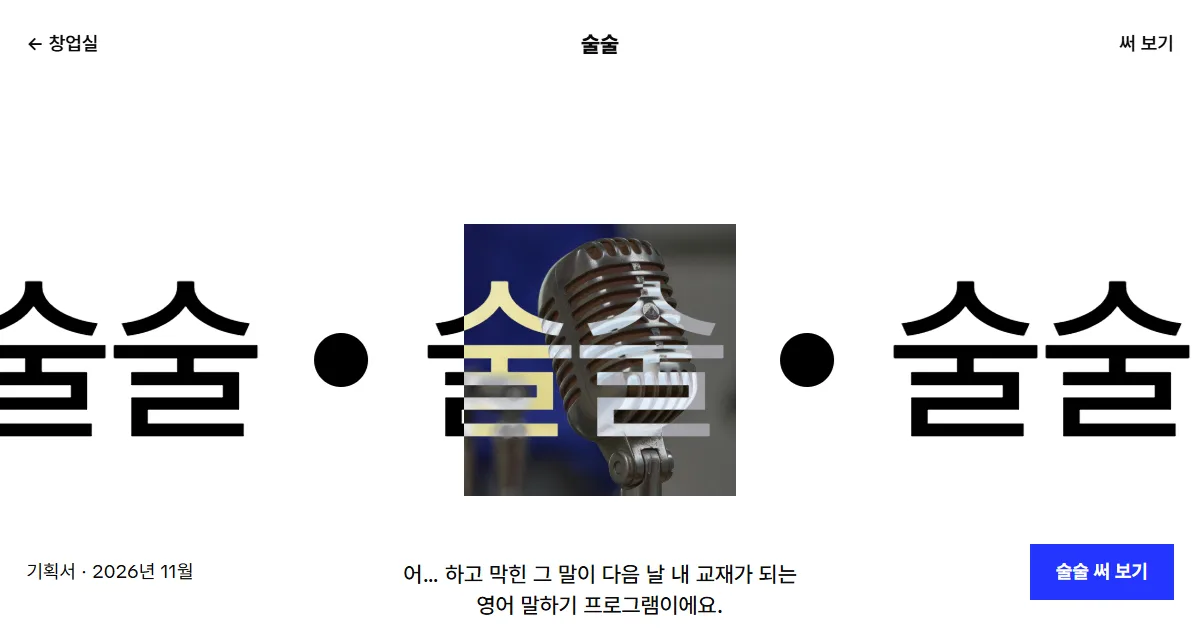
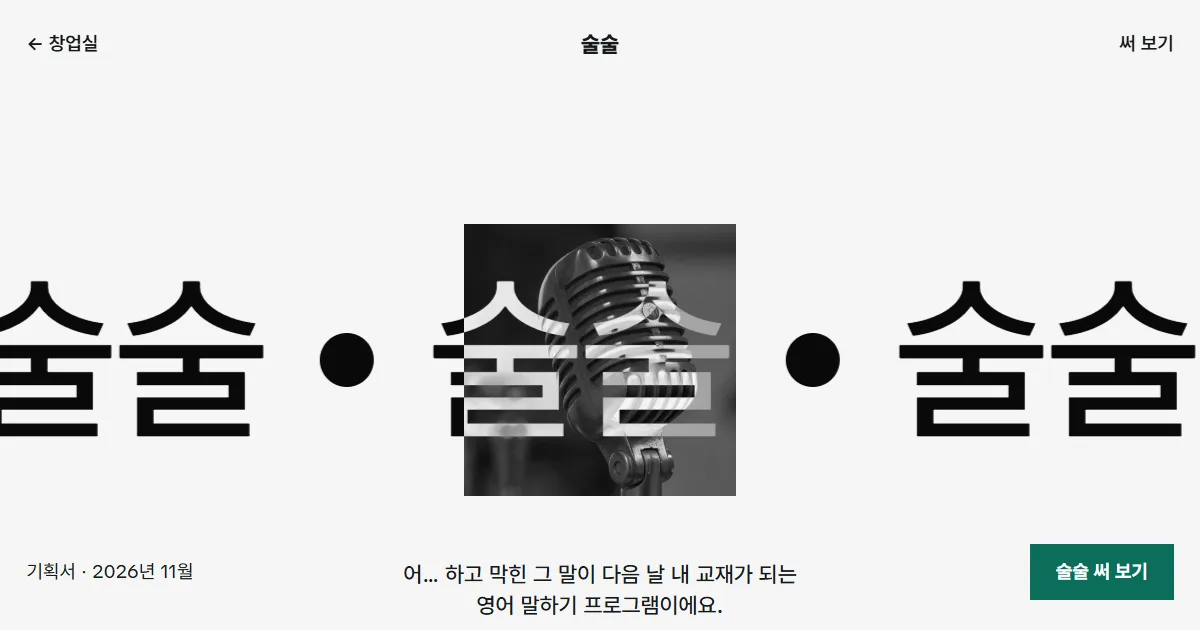
술술 색 바꿈: 쨍한 파랑·빨강 → 차분한 회백 바탕 + 청록 포인트 + 호박색 멈춤 칸 + 짙은 녹흑 면, 앱 마이크는 청록(듣는 중엔 퍼지는 고리), 첫 화면 마이크 사진 흑백

diff --git a/sulsul/index.html b/sulsul/index.html
@@ -10,45 +10,46 @@
 <link href="https://fonts.googleapis.com/css2?family=TikTok+Sans:wdth,wght@75..150,300..900&display=swap" rel="stylesheet">
 <link rel="stylesheet" href="https://cdn.jsdelivr.net/gh/orioncactus/pretendard@v1.3.9/dist/web/variable/pretendardvariable-dynamic-subset.min.css">
 <style>
-:root { --bg: #fff; --surface: #f3f3f3; --line: #e3e3e3; --ink: #0a0a0a; --muted: #5e5e5e; --blue: #2436ff; --red: #ff3b1f; --navy: #050a5c }
+:root { --bg: #fafbfa; --page: #e9ebe9; --surface: #eff1ef; --line: #dcdfdc; --ink: #17191c; --muted: #62656b; --accent: #0b6e5b; --accent-soft: #dcefe9; --warm: #f0a23b; --warm-ink: #8f5300; --alert: #b4441b; --deep: #0f2a26 }
 * { box-sizing: border-box }
 html, body { margin: 0; min-height: 100% }
-body { background: var(--surface); color: var(--ink); font: 400 17px/1.45 "TikTok Sans", "Pretendard Variable", Pretendard, sans-serif; word-break: keep-all; overflow-wrap: anywhere; -webkit-font-smoothing: antialiased }
+body { background: var(--page); color: var(--ink); font: 400 17px/1.45 "TikTok Sans", "Pretendard Variable", Pretendard, sans-serif; word-break: keep-all; overflow-wrap: anywhere; -webkit-font-smoothing: antialiased }
 button, input, select, textarea { font: inherit; color: inherit }
 button { border: 0; background: none; cursor: pointer; padding: 0 }
 button:disabled { opacity: .4; cursor: default }
-:focus-visible { outline: 3px solid var(--blue); outline-offset: 2px }
+:focus-visible { outline: 3px solid var(--accent); outline-offset: 2px }
 [hidden] { display: none !important }
 .app { max-width: 460px; min-height: 100vh; margin: 0 auto; background: var(--bg); display: flex; flex-direction: column }
 .top { display: flex; justify-content: space-between; align-items: center; padding: 16px 20px 0 }
 .mark { font-weight: 800; font-size: 24px; letter-spacing: -.03em; text-decoration: none; color: var(--ink) }
+.mark::after { content: ""; display: inline-block; width: 7px; height: 7px; margin-left: 3px; border-radius: 50%; background: var(--warm) }
 .day { font-weight: 600; font-size: 15px; color: var(--muted) }
 .view { flex: 1; padding: 14px 20px 24px; display: flex; flex-direction: column }
 h2 { margin: 22px 0 10px; font-size: 15px; font-weight: 700 }
 h2:first-child { margin-top: 6px }
 .big { margin: 10px 0 0; font-size: 28px; line-height: 1.2; font-weight: 800; letter-spacing: -.02em }
 .soft { color: var(--muted); font-size: 15px }
-.btn { display: inline-flex; align-items: center; justify-content: center; min-height: 52px; padding: 0 22px; background: var(--blue); color: #fff; font-weight: 700; transition: transform .12s, background .2s; text-decoration: none }
+.btn { display: inline-flex; align-items: center; justify-content: center; min-height: 52px; padding: 0 22px; background: var(--accent); color: #fff; font-weight: 700; transition: transform .12s, background .2s; text-decoration: none }
 .btn:hover { background: var(--ink) }
 .btn:active { transform: scale(.97) }
 .btn.ghost { background: var(--surface); color: var(--ink) }
 .btn.ghost:hover { background: var(--line) }
 .btn.wide { width: 100% }
-.link { color: var(--blue); font-weight: 700; font-size: 15px }
-.err { color: var(--red); font-weight: 600; font-size: 15px; margin: 8px 0 0 }
+.link { color: var(--accent); font-weight: 700; font-size: 15px }
+.err { color: var(--alert); font-weight: 600; font-size: 15px; margin: 8px 0 0 }
 .err:empty { display: none }
 
 /* 탭 */
 .tabs { position: sticky; bottom: 0; display: grid; grid-template-columns: repeat(5, 1fr); background: var(--bg); border-top: 1px solid var(--line) }
 .tabs button { padding: 12px 0 14px; font-size: 14px; font-weight: 700; color: var(--muted) }
-.tabs button[aria-current=page] { color: var(--ink); box-shadow: inset 0 3px var(--blue) }
-.tabs button i { display: block; font-style: normal; font-size: 12px; font-weight: 600; color: var(--blue); min-height: 1em }
+.tabs button[aria-current=page] { color: var(--ink); box-shadow: inset 0 3px var(--accent) }
+.tabs button i { display: block; font-style: normal; font-size: 12px; font-weight: 600; color: var(--accent); min-height: 1em }
 
 /* 시작 */
 .pick { display: grid; gap: 10px; margin-top: 18px }
 .pick button { text-align: left; padding: 18px; background: var(--surface); transition: background .2s }
 .pick button:hover { background: var(--line) }
-.pick button[aria-pressed=true] { background: var(--blue); color: #fff }
+.pick button[aria-pressed=true] { background: var(--accent); color: #fff }
 .pick b { display: block; font-size: 20px; font-weight: 800 }
 .pick span { font-size: 15px; opacity: .85 }
 label.f { display: grid; gap: 4px; margin-top: 12px; font-size: 15px; font-weight: 600 }
@@ -57,28 +58,28 @@ label.f { display: grid; gap: 4px; margin-top: 12px; font-size: 15px; font-weigh
 
 /* 오늘 */
 .who { display: flex; align-items: center; gap: 12px }
-.face { width: 44px; height: 44px; border-radius: 50%; background: var(--blue); color: #fff; display: grid; place-items: center; font-weight: 800; font-size: 20px; flex: none }
+.face { width: 44px; height: 44px; border-radius: 50%; background: var(--accent); color: #fff; display: grid; place-items: center; font-weight: 800; font-size: 20px; flex: none }
 .who b { display: block; font-size: 18px }
 .who span { font-size: 14px; color: var(--muted) }
 .scenes { display: flex; gap: 6px; overflow-x: auto; scrollbar-width: none; margin: 14px -20px 0; padding: 0 20px }
 .scenes button { flex: none; padding: 8px 12px; background: var(--surface); font-size: 15px; font-weight: 600 }
-.scenes button[aria-pressed=true] { background: var(--ink); color: #fff }
+.scenes button[aria-pressed=true] { background: var(--accent); color: #fff }
 .say { margin: 14px 0 0; font-size: 23px; line-height: 1.25; font-weight: 600; letter-spacing: -.01em; min-height: 2.5em }
 .say.wait { color: var(--muted) }
 .ko { margin: 6px 0 0; font-size: 16px; color: var(--muted) }
 .ko:empty { display: none }
 .sub { display: flex; gap: 14px; margin-top: 8px }
-.sub button { font-size: 15px; font-weight: 700; color: var(--blue) }
+.sub button { font-size: 15px; font-weight: 700; color: var(--accent) }
 .chips { display: grid; gap: 8px }
 .chip { display: flex; justify-content: space-between; align-items: center; gap: 10px; padding: 11px 14px; background: var(--surface); transition: background .3s, color .3s }
 .chip > div { display: flex; flex-wrap: wrap; align-items: baseline; gap: 2px 10px }
 .chip b { font-size: 17px; font-weight: 650 }
 .chip span { font-size: 14px; color: var(--muted) }
 .dots { display: flex; gap: 5px; flex: none }
-.dots::before, .dots::after { content: ""; width: 10px; height: 10px; border-radius: 50%; background: #cfcfcf }
-[data-n="1"] .dots::before, [data-n="2"] .dots::before, [data-n="2"] .dots::after { background: var(--blue) }
-.chip[data-n="2"] { background: var(--blue); color: #fff }
-.chip[data-n="2"] span { color: #dfe2ff }
+.dots::before, .dots::after { content: ""; width: 10px; height: 10px; border-radius: 50%; background: var(--line) }
+[data-n="1"] .dots::before, [data-n="2"] .dots::before, [data-n="2"] .dots::after { background: var(--accent) }
+.chip[data-n="2"] { background: var(--accent); color: #fff }
+.chip[data-n="2"] span { color: #d2ece5 }
 .chip[data-n="2"] .dots::before, .chip[data-n="2"] .dots::after { background: #fff }
 .chip.hit { animation: hit .5s }
 @keyframes hit { 40% { transform: scale(1.03) } }
@@ -86,74 +87,75 @@ label.f { display: grid; gap: 4px; margin-top: 12px; font-size: 15px; font-weigh
 .wave { margin-top: 16px; height: 64px; background: var(--surface) }
 canvas { display: block; width: 100%; height: 100% }
 .heard { margin: 8px 0 0; min-height: 2.9em; font-size: 16px; line-height: 1.45 }
-.heard em { font-style: normal; color: var(--red); font-weight: 700 }
+.heard em { font-style: normal; color: var(--warm-ink); background: #fbe7c4; padding: 0 3px; font-weight: 700 }
 .heard i { font-style: normal; color: var(--muted) }
 .go { margin-top: auto; padding-top: 10px; display: flex; align-items: center; gap: 14px }
-.mic { width: 76px; height: 76px; border-radius: 50%; background: var(--ink); color: #fff; display: grid; place-items: center; flex: none; transition: transform .15s, background .2s }
+.mic { width: 76px; height: 76px; border-radius: 50%; background: var(--accent); color: #fff; display: grid; place-items: center; flex: none; transition: transform .15s, background .2s }
 .mic:hover { transform: scale(1.05) }
 .mic:active { transform: scale(.96) }
 .mic svg { width: 30px; height: 30px }
 .mic .cut { transition: opacity .2s }
-.live .mic { background: var(--red) }
+.live .mic { background: var(--accent); animation: ring 1.6s ease-out infinite }
+@keyframes ring { from { box-shadow: 0 0 0 0 rgba(11, 110, 91, .45) } to { box-shadow: 0 0 0 18px rgba(11, 110, 91, 0) } }
 .live .mic .cut { opacity: 0 }
 .go .st b { display: block; font-size: 20px; font-weight: 800 }
 .go .st span { font-size: 15px; color: var(--muted); font-variant-numeric: tabular-nums }
 .go .side { margin-left: auto; display: grid; gap: 8px; justify-items: end }
-.go .side button { font-size: 15px; font-weight: 700; color: var(--blue) }
+.go .side button { font-size: 15px; font-weight: 700; color: var(--accent) }
 .type { display: flex; gap: 8px; margin-top: 10px }
 .type input { flex: 1; min-width: 0; padding: 12px; border: 0; background: var(--surface); font-size: 16px }
-.result { margin-top: 14px; padding: 16px; background: var(--navy); color: #fff; display: grid; gap: 8px }
+.result { margin-top: 14px; padding: 16px; background: var(--deep); color: #fff; display: grid; gap: 8px }
 .result b { font-size: 20px }
 .result .btn { background: #fff; color: var(--ink) }
 
 /* 연습 */
 .card { padding: 18px; background: var(--surface); margin-top: 10px }
 .card .k { font-size: 20px; font-weight: 700 }
-.card .e { margin-top: 8px; font-size: 22px; font-weight: 700; color: var(--blue) }
+.card .e { margin-top: 8px; font-size: 22px; font-weight: 700; color: var(--accent) }
 .card .e[hidden] { display: none }
 .card .meta { display: flex; justify-content: space-between; align-items: center; margin-top: 12px; font-size: 14px; color: var(--muted) }
 .tools { display: flex; gap: 8px; flex-wrap: wrap; margin-top: 12px }
-.tools button { padding: 10px 14px; background: var(--bg); color: var(--blue); font-weight: 700; font-size: 15px }
-.tools button.on { background: var(--red); color: #fff }
+.tools button { padding: 10px 14px; background: var(--bg); color: var(--accent); font-weight: 700; font-size: 15px }
+.tools button.on { background: var(--warm); color: var(--ink) }
 .score { margin: 10px 0 0; font-weight: 600 }
 .score:empty { display: none }
-.score.ok { color: var(--blue) }
-.score.no { color: var(--red) }
-.score s { color: var(--red) }
+.score.ok { color: var(--accent) }
+.score.no { color: var(--alert) }
+.score s { color: var(--alert) }
 .grad { margin-top: 26px; font-size: 15px; color: var(--muted) }
 
 /* 발음 */
 .pchips { display: flex; gap: 6px; overflow-x: auto; scrollbar-width: none; margin: 0 -20px 12px; padding: 0 20px }
 .pchips button { flex: none; padding: 8px 12px; background: var(--surface); font-weight: 600; font-size: 15px; color: var(--muted) }
-.pchips button[aria-pressed=true] { background: var(--ink); color: #fff }
+.pchips button[aria-pressed=true] { background: var(--accent); color: #fff }
 .pbar { height: 6px; background: var(--line); margin-bottom: 12px }
-.pbar i { display: block; height: 100%; width: 0; background: var(--blue); transition: width .3s }
+.pbar i { display: block; height: 100%; width: 0; background: var(--accent); transition: width .3s }
 .pcard { background: var(--surface); padding: 24px 20px 20px }
-.tag { display: inline-block; padding: 3px 10px; background: var(--ink); color: #fff; font-weight: 700; font-size: 14px }
+.tag { display: inline-block; padding: 3px 10px; background: var(--accent-soft); color: var(--accent); font-weight: 700; font-size: 14px }
 .word { margin: 16px 0 2px; font-size: clamp(40px, 12vw, 58px); font-weight: 800; letter-spacing: -.03em; line-height: 1.05 }
-.word s { text-decoration: none; color: var(--red); opacity: .5 }
-.ask { display: block; width: 100%; margin-top: 22px; padding: 16px; background: var(--blue); color: #fff; font-weight: 700; font-size: 18px }
+.word s { text-decoration: none; color: var(--warm) }
+.ask { display: block; width: 100%; margin-top: 22px; padding: 16px; background: var(--accent); color: #fff; font-weight: 700; font-size: 18px }
 .ans { margin-top: 18px; display: grid; gap: 12px }
-.wrong { color: var(--red); font-size: 19px; font-weight: 600 }
+.wrong { color: var(--alert); font-size: 19px; font-weight: 600 }
 .right { display: flex; align-items: baseline; flex-wrap: wrap; gap: 6px 14px }
 .right strong { font-size: 34px; font-weight: 500; letter-spacing: -.02em }
-.right strong b { font-weight: 850; color: var(--blue) }
+.right strong b { font-weight: 850; color: var(--accent) }
 .ipa { font-size: 16px; color: var(--muted) }
 .tip { margin: 0; padding: 12px 14px; background: var(--bg); font-weight: 500 }
 .next { display: grid; grid-template-columns: 1fr 1fr; gap: 8px }
 .next button { padding: 15px; font-weight: 700; font-size: 17px; background: var(--bg) }
-.next button + button { background: var(--blue); color: #fff }
+.next button + button { background: var(--accent); color: #fff }
 .pcount { margin-top: 10px; font-size: 14px; color: var(--muted) }
 
 /* 기록 */
 .chart { display: flex; align-items: flex-end; gap: 6px; height: 140px; padding-top: 10px }
 .chart div { flex: 1; display: flex; flex-direction: column; align-items: center; gap: 4px; height: 100%; justify-content: flex-end; font-size: 12px; color: var(--muted) }
-.chart i { width: 100%; background: var(--red); min-height: 3px }
+.chart i { width: 100%; background: var(--warm); min-height: 3px }
 .sess { margin-top: 8px; background: var(--surface) }
 .sess summary { padding: 12px 14px; cursor: pointer; display: flex; justify-content: space-between; gap: 10px; font-weight: 600 }
 .sess summary span { color: var(--muted); font-weight: 400; font-size: 15px }
 .sess ol { margin: 0; padding: 0 14px 14px 32px; display: grid; gap: 6px; font-size: 15px }
-.sess li.me { color: var(--blue) }
+.sess li.me { color: var(--accent) }
 
 @media (min-width: 700px) { .app { margin-top: 24px; margin-bottom: 24px; min-height: calc(100vh - 48px) } }
 @media (prefers-reduced-motion: reduce) { * { animation: none !important; transition: none !important } }
@@ -204,7 +206,7 @@ canvas { display: block; width: 100%; height: 100% }
     <div class="sub" id="lsub" hidden><button id="again">다시 듣기</button><button id="tr">한국어로 보기</button></div>
     <h2>오늘 다시 써 볼 말</h2>
     <div class="chips" id="chips"></div>
-    <div class="wave" id="wave"><canvas id="cv" aria-label="내 목소리 파형, 멈춘 곳은 빨간 칸"></canvas></div>
+    <div class="wave" id="wave"><canvas id="cv" aria-label="내 목소리 파형, 멈춘 곳은 주황 칸"></canvas></div>
     <p class="heard" id="heard" aria-live="polite"></p>
     <form class="type" id="typed" hidden><input id="tin" placeholder="영어로 쓰기 (한국어 섞어도 돼요)" autocomplete="off" lang="en"><button class="btn" style="min-height:44px;padding:0 16px">보내기</button></form>
     <div class="result" id="result" hidden></div>
@@ -436,7 +438,7 @@ function speak(text, rate = .95) {
     speechSynthesis.speak(u);
   });
 }
-// 파형: 막대 하나 = 1/30초. 말한 뒤 1.2초 넘게 조용하면 빨간 칸(멈춤)
+// 파형: 막대 하나 = 1/30초. 말한 뒤 1.2초 넘게 조용하면 주황 칸(멈춤)
 const cv = $("cv"), g = cv.getContext("2d");
 let bars = [], listening = false, stream, actx, meter;
 function size() { const r = cv.getBoundingClientRect(); if (!r.width) return; const d = devicePixelRatio || 1; cv.width = r.width * d; cv.height = r.height * d; g.setTransform(d, 0, 0, d, 0, 0); draw() }
@@ -445,10 +447,10 @@ function draw() {
   const w = cv.clientWidth, h = cv.clientHeight, step = 4, vis = bars.slice(-Math.floor(w / step));
   g.clearRect(0, 0, w, h);
   vis.forEach((b, i) => {
-    if (b.gap) { g.fillStyle = "#ff3b1f"; g.fillRect(i * step, 0, step, h) }
-    else { const bh = Math.max(3, b.v * h * .9); g.fillStyle = "#0a0a0a"; g.fillRect(i * step + 1, (h - bh) / 2, step - 2, bh) }
+    if (b.gap) { g.fillStyle = "#f0a23b"; g.fillRect(i * step, 0, step, h) }
+    else { const bh = Math.max(3, b.v * h * .9); g.fillStyle = "#17191c"; g.fillRect(i * step + 1, (h - bh) / 2, step - 2, bh) }
   });
-  g.fillStyle = "#fff"; g.font = "700 14px 'TikTok Sans', sans-serif"; g.textBaseline = "middle";
+  g.fillStyle = "#17191c"; g.font = "700 14px 'TikTok Sans', sans-serif"; g.textBaseline = "middle";
   vis.forEach((b, i) => { if (b.gap && !vis[i - 1]?.gap) { let j = i; while (vis[j]?.gap) j++; if ((j - i) * step > 34) g.fillText("uhm", i * step + 6, h / 2) } });
 }
 let quiet = 0, spoke = false, gapOpen = false;

diff --git a/sulsul/plan/index.html b/sulsul/plan/index.html
@@ -11,8 +11,8 @@
 <link rel="stylesheet" href="https://cdn.jsdelivr.net/gh/orioncactus/pretendard@v1.3.9/dist/web/variable/pretendardvariable-dynamic-subset.min.css">
 <style>
 :root {
-  --bg: #fff; --surface: #f3f3f3; --ink: #0a0a0a; --muted: #5e5e5e;
-  --blue: #2436ff; --red: #ff3b1f; --black: #0a0a0a; --navy: #050a5c;
+  --bg: #f5f6f5; --surface: #e9ebe9; --ink: #17191c; --muted: #5e6168;
+  --blue: #0b6e5b; --red: #f0a23b; --black: #17191c; --navy: #0f2a26;
   --m: clamp(16px, 2.2vw, 32px);
   --small: clamp(.8125rem, .79rem + .1vw, .875rem);
   --body: clamp(1.0625rem, 1rem + .25vw, 1.1875rem);
@@ -44,7 +44,7 @@ h1, h2, h3, p { margin: 0 }
 .bar a:last-child { justify-self: end }
 .band { position: absolute; left: 0; right: 0; top: calc(360px - .5 * var(--fs)); --fs: clamp(150px, 15vw, 230px); height: var(--fs); }
 .band .shot { position: absolute; left: 50%; top: 50%; width: max(272px, 19vw); aspect-ratio: 1; transform: translate(-50%, -50%) }
-.band .shot img { width: 100%; height: 100%; object-fit: cover }
+.band .shot img { width: 100%; height: 100%; object-fit: cover; filter: grayscale(1) contrast(1.05) }
 .line { position: absolute; inset: 0; z-index: 2; margin: 0; display: flex; white-space: nowrap; font-size: var(--fs); font-weight: 500; font-stretch: 150%; letter-spacing: -.02em; line-height: 1; align-items: center; color: #fff; mix-blend-mode: difference }
 .line span { display: flex; align-items: center; animation: run 38s linear infinite; padding-right: .3em }
 .line span::after { content: ""; width: .3em; height: .3em; border-radius: 50%; background: currentColor; margin-left: .3em; flex: none }
@@ -55,9 +55,9 @@ h1, h2, h3, p { margin: 0 }
 .foot { position: absolute; left: var(--m); right: var(--m); bottom: 40px; display: flex; justify-content: space-between; align-items: center; gap: 16px }
 
 /* 내 이야기: 계단 문장 */
-.stairs { position: relative; min-height: 100svh; background: var(--red); color: #fff; padding: 14svh 4vw 12svh; display: grid; grid-template-columns: 1fr 20vw; gap: 4vw; align-items: start }
+.stairs { position: relative; min-height: 100svh; background: var(--navy); color: #fff; padding: 14svh 4vw 12svh; display: grid; grid-template-columns: 1fr 20vw; gap: 4vw; align-items: start }
 .s p { font-size: clamp(36px, 4.4vw, 64px); font-weight: 800; line-height: 1.02; letter-spacing: -.02em; padding-left: calc(var(--k) * 6vw) }
-.s p:nth-child(odd) { color: var(--black) }
+.s p:nth-child(odd) { color: var(--red) }
 .kept { display: grid; gap: 16px }
 .kept figure { min-width: 0; margin: 0; aspect-ratio: 3 / 2; background: #fff; color: var(--ink); padding: 14px; display: flex; flex-direction: column; justify-content: space-between }
 .kept figcaption { font-size: var(--small); font-weight: 600 }
@@ -65,8 +65,8 @@ h1, h2, h3, p { margin: 0 }
 .call i { background: var(--blue); display: grid; place-items: end start; padding: 6px; color: #fff; font-style: normal; font-size: 12px; font-weight: 600 }
 .call i + i { background: var(--surface); color: var(--ink) }
 .pron { font-size: clamp(26px, 2.6vw, 40px); font-weight: 800; letter-spacing: -.02em }
-.pron s { color: var(--red); text-decoration-thickness: .08em }
-.note { grid-column: 1 / -1; align-self: end; color: var(--ink); font-size: 16px; font-weight: 500; max-width: 36ch; margin-top: 8svh }
+.pron s { color: #c77a12; text-decoration-thickness: .08em }
+.note { grid-column: 1 / -1; align-self: end; color: #fff; font-size: 16px; font-weight: 500; max-width: 36ch; margin-top: 8svh }
 
 /* 하루 10분 */
 .loop { padding: 180px var(--m) 200px }
@@ -275,7 +275,7 @@ h2.st { color: var(--ink); text-transform: none; letter-spacing: -.04em; font-st
   <p class="st rise" style="--i:3" aria-hidden="true">말해 봐.</p>
   <div class="facts">
     <p class="rise">열면 레슨 목록이 아니라 상대의 말이 먼저 나와요. 지난번 내가 한 얘기를 기억해서 이어 물어요. 그 아래엔 막혔던 말 세 개가 오늘 써 볼 말로 올라와 있어요.</p>
-    <p class="rise" style="--i:1">마이크를 켜면 진짜로 들어요. 1.2초 넘게 멈추면 파형에 빨간 칸이 생기고, 써 볼 말을 말하면 위 칸이 채워져요. 옆 화면은 예시라서 대화 상대 없이 파형만 움직여요.</p>
+    <p class="rise" style="--i:1">마이크를 켜면 진짜로 들어요. 1.2초 넘게 멈추면 파형에 주황 칸이 생기고, 써 볼 말을 말하면 위 칸이 채워져요. 옆 화면은 예시라서 대화 상대 없이 파형만 움직여요.</p>
     <a class="open rise" style="--i:2" href="../">술술 열기 →</a>
   </div>
   </div>
@@ -289,8 +289,8 @@ h2.st { color: var(--ink); text-transform: none; letter-spacing: -.04em; font-st
     <div class="cards">
       <article class="card on"><h3>나를 기억하는 상대</h3><img src="../img/cafe.webp" alt="카페 카운터에서 커피를 내주는 바리스타" width="1400" height="934" loading="lazy"><p>어제 한 말을 기억하고 오늘 이어서 물어요. 단골 카페 점원처럼요.</p></article>
       <article class="card"><h3>메워지는 구멍</h3>
-        <div class="gap" aria-label="첫날은 빨간 구멍이 많고 4주 뒤엔 거의 없는 파형"><span>첫날</span><div><b style="--w:3"></b><b class="h" style="--w:2"></b><b style="--w:2"></b><b class="h" style="--w:3"></b><b style="--w:1"></b><b class="h" style="--w:2"></b><b style="--w:2"></b></div><span>4주 뒤</span><div><b style="--w:6"></b><b class="h" style="--w:.6"></b><b style="--w:7"></b><b class="h" style="--w:.4"></b><b style="--w:4"></b></div></div>
-        <p>매주 같은 질문에 다시 답해요. 빨간 구멍이 줄어드는 게 보이고 들려요.</p></article>
+        <div class="gap" aria-label="첫날은 주황 구멍이 많고 4주 뒤엔 거의 없는 파형"><span>첫날</span><div><b style="--w:3"></b><b class="h" style="--w:2"></b><b style="--w:2"></b><b class="h" style="--w:3"></b><b style="--w:1"></b><b class="h" style="--w:2"></b><b style="--w:2"></b></div><span>4주 뒤</span><div><b style="--w:6"></b><b class="h" style="--w:.6"></b><b style="--w:7"></b><b class="h" style="--w:.4"></b><b style="--w:4"></b></div></div>
+        <p>매주 같은 질문에 다시 답해요. 주황 구멍이 줄어드는 게 보이고 들려요.</p></article>
       <article class="card"><h3>바깥 퀘스트</h3><img src="../img/airport.webp" alt="공항 출발 안내판" width="1400" height="933" loading="lazy"><p>4주마다 진짜 사람 앞에서. 영어로 주문, 길 안내, 3분 발표 녹화.</p></article>
       <article class="card"><h3>내 영어 이야기책</h3><img src="../img/diary.webp" alt="손글씨로 채운 오래된 일기장" width="1400" height="933" loading="lazy"><p>한 달 동안 말한 문장이 내 이야기 한 권이 돼요. 내 목소리로 다시 들어요.</p></article>
     </div>
